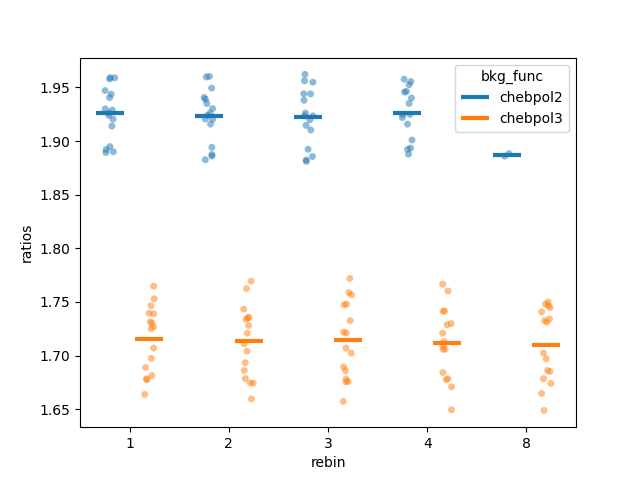
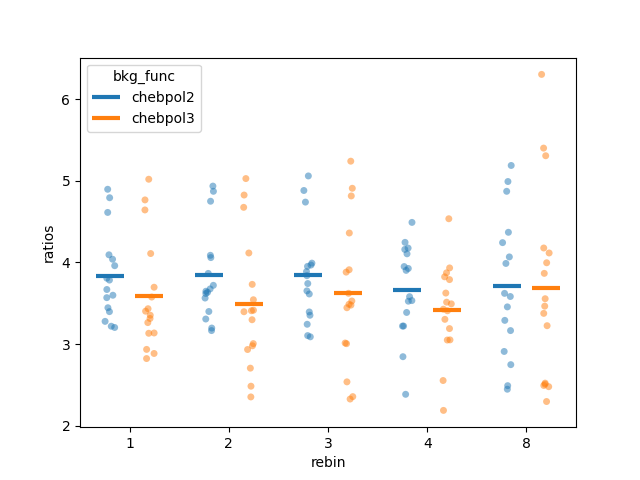
Check for RY systematic evaluation

diff --git a/Systematics/RawYields/studies.py b/Systematics/RawYields/studies.py
@@ -4,7 +4,7 @@ import numpy as np
 import pickle
 import seaborn as sns
 
-with open("/home/fchinu/Run3/Ds_pp_13TeV/Systematics/RawYields/results/pt20.0_25.0.pkl", "rb") as f:
+with open("/home/fchinu/Run3/Ds_pp_13TeV/Systematics/RawYields/results/pt120.0_240.0.pkl", "rb") as f:
     data = pickle.load(f)
 
 Trials = np.array(data["convergedTrials"])
